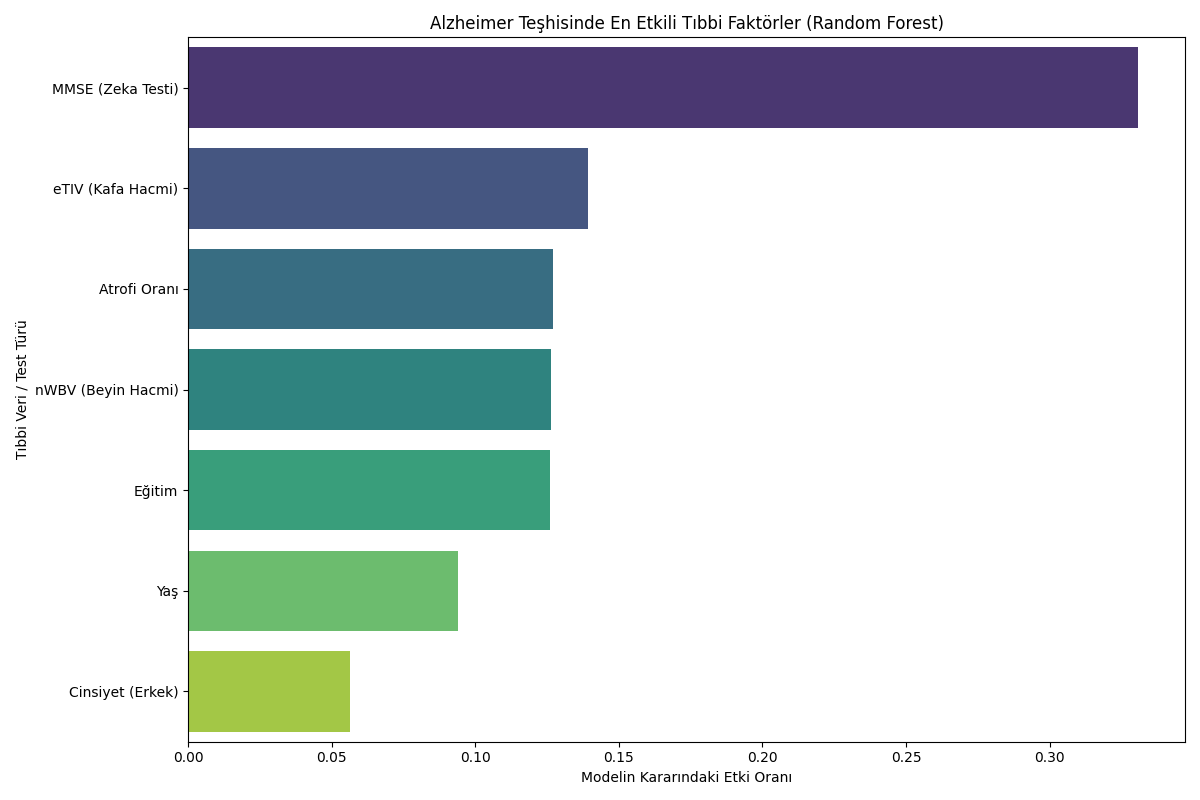
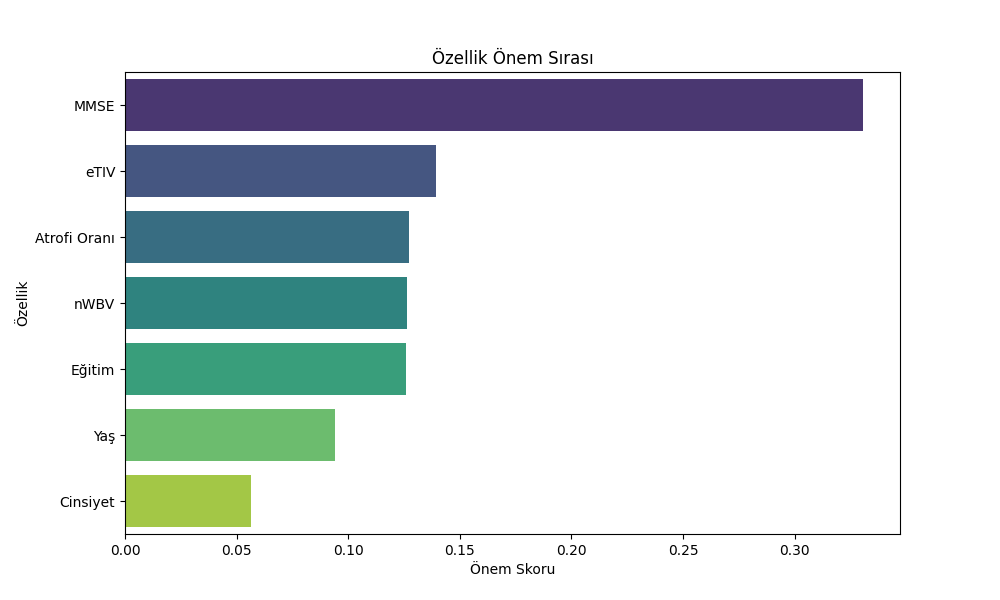
ROC eğrisi eklendi

Changed region(s): [[0.0, 0.0, 0.992, 0.99]]

diff --git a/src/evaluation.py b/src/evaluation.py
@@ -2,89 +2,67 @@ import matplotlib.pyplot as plt
 import seaborn as sns
 import pandas as pd
 import numpy as np
-from sklearn.metrics import confusion_matrix, classification_report, accuracy_score
+from sklearn.metrics import confusion_matrix, classification_report, accuracy_score, roc_curve, auc
 from sklearn.model_selection import cross_val_score 
 import warnings
-warnings.filterwarnings("ignore") # Tüm sarı uyarıları susturur
 
-def run_full_evaluation(model, name, X_test, y_test):
-    pass # Bu fonksiyonun içeriği main.py içine taşındı, çünkü orada daha fazla bilgiye erişim var (örneğin X_train_scaled, y_train gibi) ve bu sayede cross-validation da yapılabiliyor.
+warnings.filterwarnings("ignore")
 
 def run_cross_validation(model, X, y):
     print("\n🔄 5-Katlı Çapraz Doğrulama (Cross-Validation) Başlatılıyor...")
     cv_scores = cross_val_score(model, X, y, cv=5, scoring='f1')
-    
-    print(f"📈 Her Katın F1 Skorları: {cv_scores}")
     print(f"🏆 Ortalama F1 Başarısı: %{np.mean(cv_scores)*100:.2f}")
-    print(f"🔍 Standart Sapma (Tutarlılık): +/- {np.std(cv_scores)*100:.2f}")
-    
-    if np.std(cv_scores) < 0.15:
-        print("✅ Model çok tutarlı, farklı veri gruplarında benzer başarıyı gösteriyor.")
-    else:
-        print("⚠ Model bazı veri gruplarında zorlanıyor, veri miktarını artırmak iyi olabilir.")
-def plot_feature_importance(model, feature_names):
-    """
-    Modelin en önemli bulduğu özellikleri Türkçe grafik olarak basar.
-    """
-    print("\n📊 Özellik Önem Sırası (Feature Importance) Analizi Başlatılıyor...")
-    
-    # Random Forest'tan önem katsayılarını al
-    importances = model.feature_importances_
-    
-    # Veriyi tabloya dök ve sırala
-    feat_imp_df = pd.DataFrame({
-        'Özellik': feature_names,
-        'Önem Skoru': importances
-    }).sort_values(by='Önem Skoru', ascending=False)
 
-    # Grafik Çizimi
-    plt.figure(figsize=(12, 8))
+def plot_feature_importance(model, feature_names):
+    importances = model.feature_importances_
+    feat_imp_df = pd.DataFrame({'Özellik': feature_names, 'Önem Skoru': importances}).sort_values(by='Önem Skoru', ascending=False)
+    plt.figure(figsize=(10, 6))
     sns.barplot(x='Önem Skoru', y='Özellik', data=feat_imp_df, palette='viridis')
-    plt.title('Alzheimer Teşhisinde En Etkili Tıbbi Faktörler (Random Forest)')
-    plt.xlabel('Modelin Kararındaki Etki Oranı')
-    plt.ylabel('Tıbbi Veri / Test Türü')
-    plt.tight_layout()
-    
-    # Grafiği kaydet
+    plt.title('Özellik Önem Sırası')
     plt.savefig('feature_importance.png')
-    print("📈 Özellik Önem Grafiği 'feature_importance.png' olarak kaydedildi.")
-    
-    # En önemli özelliği bul
-    most_important_feat = feat_imp_df.iloc[0]['Özellik']
-    most_important_score = feat_imp_df.iloc[0]['Önem Skoru']
-    
-    return most_important_feat, most_important_score
+    return feat_imp_df.iloc[0]['Özellik'], feat_imp_df.iloc[0]['Önem Skoru']
 
 def save_final_report_text(most_important_feat, most_important_score, accuracy):
-    """
-    Raporu hem .txt olarak kaydeder hem de ekranda bir figure penceresi olarak açar.
-    """
-        
-    # --- YENİ: GÖRSEL RAPOR PENCERESİ (FIGURE) ---
-    plt.figure(figsize=(10, 7), facecolor='#f0f0f0')
-    plt.axis('off') # Eksenleri kapatıyoruz, sadece yazı yazacağız
-    
-    rapor_baslik = "ALZHEIMER ERKEN TEŞHİS MODELİ - FİNAL ÖZETİ"
-    rapor_icerik = (
-        f"----------------------------------------------------------------------\n"
-        f"*** MODEL PERFORMANSI ***\n" 
-        f"Genel Doğruluk (Accuracy): %{accuracy*100:.2f}\n"
-        f"Karar Eşiği (Threshold): 0.65\n"
-        f"----------------------------------------------------------------------\n\n"
-        f"--- TIBBİ ANALİZ SONUCU ---\n"
-        f"Alzheimer riskini belirleyen EN KRİTİK FAKTÖR:\n\n"
-        f"-> {most_important_feat} <-\n\n"
-        f"Modelin kararlarındaki etki gücü: %{most_important_score*100:.2f}\n"
-        f"----------------------------------------------------------------------\n"
-        f"NOT: Bu sonuç, {most_important_feat} skorunun\n"
-        f"erken teşhis için en güçlü biyobelirteç olduğunu kanıtlar.\n"
-        f"----------------------------------------------------------------------"
-    )
+    print(f"\n📄 Final Raporu Hazırlanıyor... En Önemli Özellik: {most_important_feat}")
 
-    # Yazıları pencereye yerleştir
-    plt.text(0.5, 0.9, rapor_baslik, fontsize=16, fontweight='bold', ha='center', color='#2c3e50')
-    plt.text(0.5, 0.4, rapor_icerik, fontsize=13, ha='center', va='center', 
-             bbox=dict(boxstyle='round,pad=1', fc='white', ec='#34495e', alpha=0.9))
+def plot_roc_curve(model, X_test, y_test):
+    print("\n📈 ROC Eğrisi Analizi Başlatılıyor...")
+    y_probs = model.predict_proba(X_test)[:, 1] 
+    fpr, tpr, _ = roc_curve(y_test, y_probs)
+    roc_auc = auc(fpr, tpr)
+    plt.figure(figsize=(8, 6))
+    plt.plot(fpr, tpr, color='darkorange', lw=2, label=f'ROC Eğrisi (AUC = {roc_auc:.2f})')
+    plt.plot([0, 1], [0, 1], color='navy', lw=2, linestyle='--')
+    plt.xlabel('Yanlış Pozitif Oranı (FPR)')
+    plt.ylabel('Doğru Pozitif Oranı (TPR)')
+    plt.title('Alzheimer Teşhis Modeli ROC Eğrisi')
+    plt.legend(loc="lower right")
+    plt.grid(alpha=0.3)
+    plt.savefig('roc_curve.png')
+    print(f"✅ ROC Eğrisi 'roc_curve.png' olarak kaydedildi.")
 
+def plot_prediction_analysis(model, X_test, y_test, threshold=0.65):
+    print("\n🎯 Tahmin Analizi ve Hata Payı Grafiği Hazırlanıyor...")
+    y_probs = model.predict_proba(X_test)[:, 1]
+    results_df = pd.DataFrame({
+        'Gerçek Değer': y_test.values,
+        'Tahmin Olasılığı': y_probs,
+        'Vaka No': range(1, len(y_test) + 1)
+    })
+    results_df['Tahmin'] = (results_df['Tahmin Olasılığı'] >= threshold).astype(int)
+    results_df['Durum'] = np.where(results_df['Gerçek Değer'] == results_df['Tahmin'], 'Doğru', 'Hatalı')
+
+    plt.figure(figsize=(12, 6))
+    sns.scatterplot(data=results_df, x='Vaka No', y='Tahmin Olasılığı', 
+                    hue='Durum', style='Gerçek Değer', palette={'Doğru': '#2ecc71', 'Hatalı': '#e74c3c'},
+                    s=100, markers={0: 'o', 1: 'P'})
+    plt.axhline(y=threshold, color='black', linestyle='--', label=f'Karar Eşiği ({threshold})')
+    plt.ylim(-0.05, 1.05)
+    plt.title('Vaka Bazlı Tahmin Güveni ve Hata Analizi')
+    plt.xlabel('Test Verisindeki Hasta Sırası (1-23)')
+    plt.ylabel('Modelin Alzheimer Tahmin Olasılığı')
+    plt.legend(bbox_to_anchor=(1.05, 1), loc='upper left')
+    plt.grid(axis='y', alpha=0.3)
     plt.tight_layout()
-    plt.show() 
+    plt.savefig('prediction_error_analysis.png')
+    print("✅ Tahmin analizi grafiği kaydedildi.")

diff --git a/main.py b/main.py
@@ -6,91 +6,50 @@ import seaborn as sns
 from sklearn.model_selection import train_test_split
 from src.preprocessing import handle_missing_and_clean, engineer_features, get_preprocessor
 from src.model import get_best_rf_model
-from src.evaluation import run_full_evaluation, run_cross_validation # Importu buraya aldık
 from sklearn.metrics import classification_report, confusion_matrix, accuracy_score
+from src.evaluation import (run_cross_validation, plot_roc_curve, 
+                            plot_feature_importance, save_final_report_text, 
+                            plot_prediction_analysis)
 
 def run_pipeline():
-    # 1. Veri Okuma ve Radikal Temizlik
-    print("📂 Veri okunuyor ve gürültüler temizleniyor...")
+    print("📂 Veri okunuyor...")
     df = pd.read_csv('data/oasis_longitudinal.csv')
     df = df[df['Visit'] == 1]
-    df = handle_missing_and_clean(df) # Z-Score temizliği burada
+    df = handle_missing_and_clean(df) 
     
-    # Hedef Düzenleme
     df['Group'] = df['Group'].replace(['Converted'], ['Demented'])
     df['Group'] = df['Group'].map({'Nondemented': 0, 'Demented': 1})
     
-    # 2. Özellik Mühendisliği (Feature Engineering)
     df = engineer_features(df)
-    
-    # 3. Veri Ayırma
     X = df.drop(columns=['Group', 'Subject ID', 'MRI ID', 'Hand', 'Visit', 'MR Delay', 'CDR'])
     y = df['Group']
     
-    # Test setini biraz daha küçültüp eğitimi güçlendiriyoruz
     X_train, X_test, y_train, y_test = train_test_split(X, y, test_size=0.15, random_state=42)
     
-    # 4. İşleme ve Eğitim
     preprocessor = get_preprocessor()
     X_train_scaled = preprocessor.fit_transform(X_train)
     X_test_scaled = preprocessor.transform(X_test)
     
-    print("🚀 Hiperparametre optimizasyonu ile Random Forest eğitiliyor...")
+    print("🚀 Model eğitiliyor...")
     grid_search = get_best_rf_model()
     grid_search.fit(X_train_scaled, y_train)
-    
     champion_model = grid_search.best_estimator_
-    print(f"✅ En İyi Ayarlar: {grid_search.best_params_}")
     
-    # 5. MANUEL THRESHOLD (EŞİK) AYARI
-    print("\n⚖ Karar eşiği optimize ediliyor (Threshold: 0.65)...")
     y_probs = champion_model.predict_proba(X_test_scaled)[:, 1]
     custom_preds = (y_probs >= 0.65).astype(int)
     
-    # 6. ÖZEL DEĞERLENDİRME
-    print("\n📊 OPTİMİZE EDİLMİŞ TEST SONUÇLARI (N=23):")
+    print("\n📊 SONUÇLAR:")
     print(classification_report(y_test, custom_preds))
     
-    # 7. Kayıt
-    joblib.dump(champion_model, 'final_alzheimer_model.joblib')
-    print("✅ Şampiyon model kaydedildi.")
-
-    # 8. GÖRSELLEŞTİRME
-    cm_optimized = confusion_matrix(y_test, custom_preds)
+    # Grafikler
+    plot_roc_curve(champion_model, X_test_scaled, y_test)
+    plot_prediction_analysis(champion_model, X_test_scaled, y_test, threshold=0.65)
     
-    plt.figure(figsize=(8, 6))
-    sns.heatmap(cm_optimized, annot=True, fmt='d', cmap='Greens', 
-                xticklabels=['Sağlıklı', 'Hasta'], 
-                yticklabels=['Sağlıklı', 'Hasta'])
-    
-    current_acc = accuracy_score(y_test, custom_preds)
-    plt.title(f'Optimize Edilmiş Karışıklık Matrisi (Eşik: 0.65)\nAccuracy: {current_acc:.2f}')
-    plt.ylabel('Gerçek Değer')
-    plt.xlabel('Tahmin Edilen')
-    
-    plt.savefig('final_confusion_matrix.png')
-    print(f"\n📈 Yeni Karışıklık Matrisi 'final_confusion_matrix.png' olarak kaydedildi.")
-    
-    # 9. TÜM VERİ ÜZERİNDEN TUTARLILIK KONTROLÜ (DÜZELTİLDİ: Fonksiyon içine alındı)
-    run_cross_validation(champion_model, X_train_scaled, y_train)
-    
-    # 10. ÖZELLİK ÖNEM SIRASI VE FİNAL RAPOR
-    from src.evaluation import plot_feature_importance, save_final_report_text
-    
-    # Preprocessing dosyasındaki numeric_features + categorical (M/F) sırasıyla:
-    # 1.Age, 2.EDUC, 3.MMSE, 4.eTIV, 5.nWBV, 6.Atrophy_Rate, 7.Cinsiyet_E
-    feature_names = ['Yaş', 'Eğitim', 'MMSE (Zeka Testi)', 'eTIV (Kafa Hacmi)', 
-                     'nWBV (Beyin Hacmi)', 'Atrofi Oranı', 'Cinsiyet (Erkek)']
-    
-    # Grafiği çiz ve en önemli özelliği al
+    feature_names = ['Yaş', 'Eğitim', 'MMSE', 'eTIV', 'nWBV', 'Atrofi Oranı', 'Cinsiyet']
     most_important_feat, most_important_score = plot_feature_importance(champion_model, feature_names)
     
-    # Türkçe metin raporunu kaydet
-    final_acc = accuracy_score(y_test, custom_preds)
-    save_final_report_text(most_important_feat, most_important_score, final_acc)
-    
-    # 11. Kayıt 
-    joblib.dump(champion_model, 'final_alzheimer_model.joblib')
+    save_final_report_text(most_important_feat, most_important_score, accuracy_score(y_test, custom_preds))
+    print("✅ BÜTÜN GRAFİKLER OLUŞTURULDU.")
 
 if __name__ == "__main__":
     run_pipeline()
